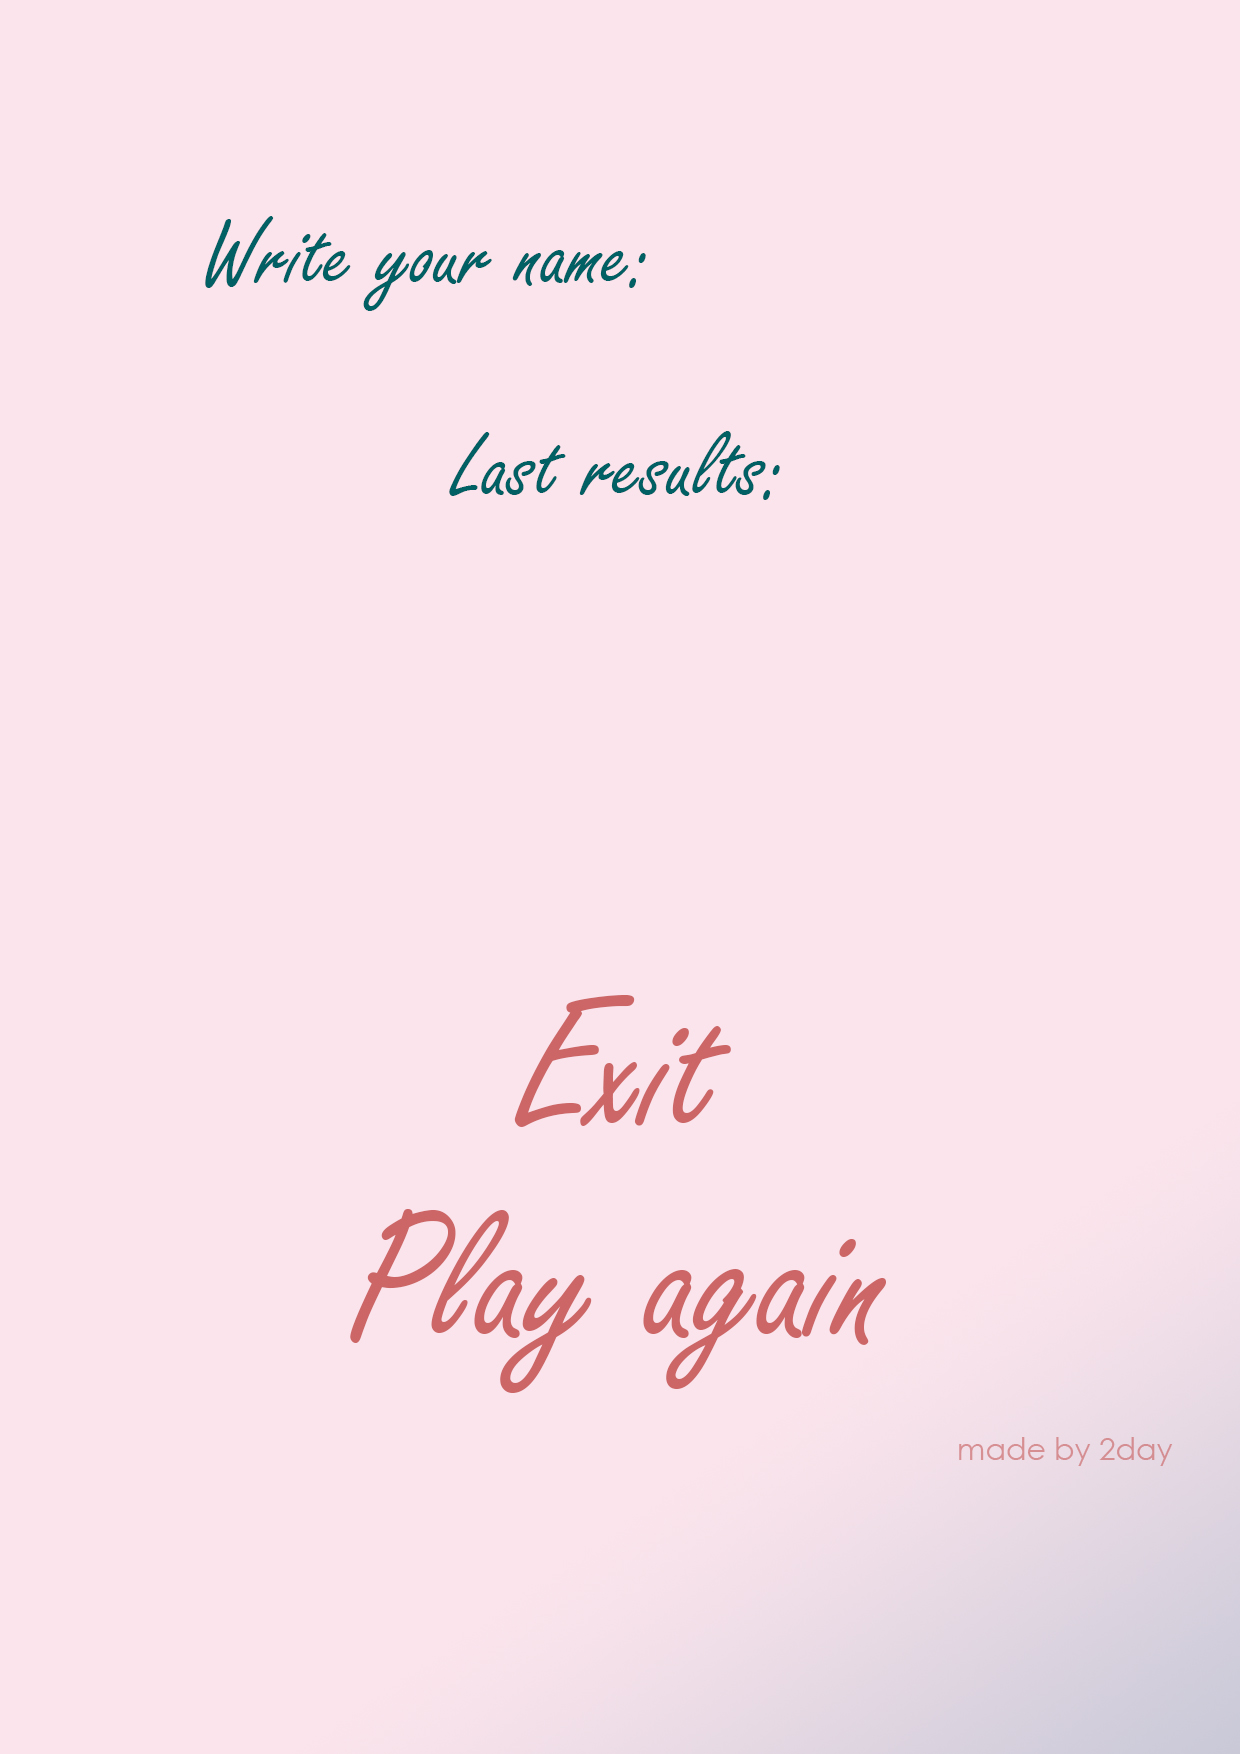
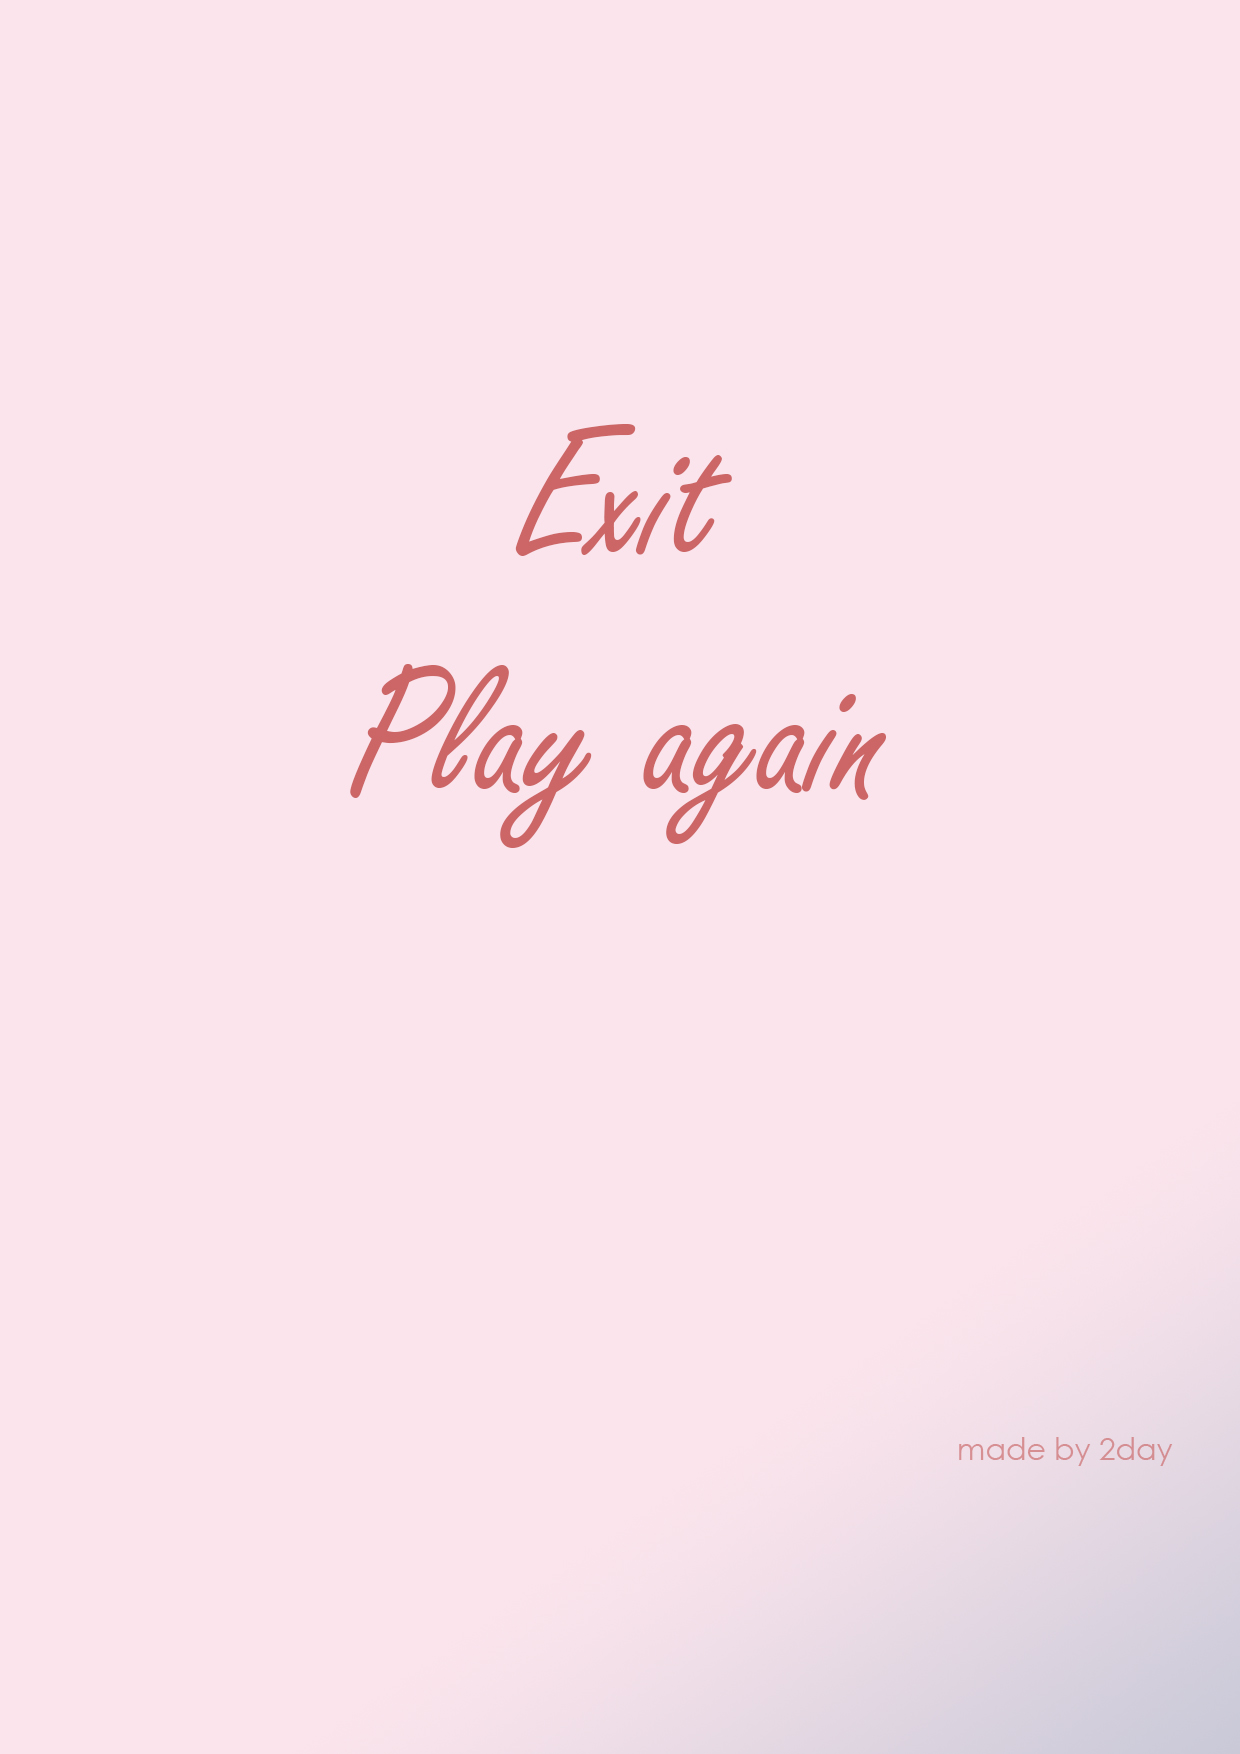
update EndOfGame window

diff --git a/project/project/src/sample/EndOfGameController.java b/project/project/src/sample/EndOfGameController.java
@@ -25,24 +25,10 @@ import java.util.Scanner;
  */
 public class EndOfGameController {
 
-    private Game1Controller game1Controller = new Game1Controller();
-    private ObservableList<User> usersData = FXCollections.observableArrayList();
     @FXML
     private Button exitButton;
     @FXML
     private Button playAgainButton;
-    @FXML
-    private TextField nameTextField;
-    @FXML
-    private TableView<User> tableView;
-    @FXML
-    private TableColumn<User, String> nameColumn;
-    @FXML
-    private TableColumn<User, Integer> resultsColumn;
-    @FXML
-    private Button addResultButton;
-
-    private String name;
 
     @FXML
     public void initialize() {
@@ -81,19 +67,5 @@ public class EndOfGameController {
             stage = (Stage) playAgainButton.getScene().getWindow();
             stage.close();
         });
-        nameTextField.setOnAction(event3 -> {
-            name = nameTextField.getText();
-        });
-
-        addResultButton.setOnAction(event4 -> {
-            initData();
-            nameColumn.setCellValueFactory(new PropertyValueFactory<User, String>("name"));
-            resultsColumn.setCellValueFactory(new PropertyValueFactory<User, Integer>("results"));
-            tableView.setItems(usersData);
-        });
-    }
-
-    private void initData() {
-        usersData.add(new User(name, game1Controller.getCounter()));
     }
 }
